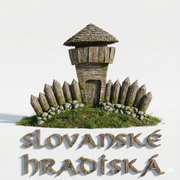
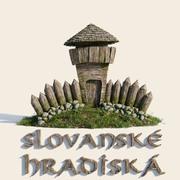
fix: mobilna lista, ikona aplikacie, satelit na telefone, koliesko nad mapou
1 · MOBILNA LISTA
Ikony sa zastavili hned za znackou a vpravo ostavalo prazdno — namerane
105 px pri okne 390 px, kym vlavo ma znacka odsadenie 14 px. `.lnav-right`
dostalo `margin-left: auto`. Overene na dvoch zariadeniach: 14 px vlavo,
14 px vpravo.

2 · IKONA APLIKACIE
Kresba loga mala vlastne sivobiele pozadie rgb(237,237,236), kym maskovatelna
ikona okolo nej mala kremovy ram — v nainstalovanej aplikacii bolo preto
vidiet svetlejsi stvorec vnutri ikony. Novy `scripts/gen-ikony.mjs` pozadie
vyplavi OD ROHOV (nie plosnou zamenou farby, tá by prezrala svetle kamene
a sindlovu strechu) a nahradi ho papierom stranky #f3ede1. Vsetkych sest
ikon aj `background_color` v manifeste teraz drzi jednu farbu.

3 · SATELIT NA TELEFONE Z DOMOVSKEJ STRANKY
Tuknutie na „Satelit" v bocnom paneli iba otvorilo mapu na celu obrazovku
a podklad ostal na reliefe. Poslucháč, ktory mapu otvara, sedi na koreni
sekcie v zachytavacej faze a tuknutie pohltil skor, nez sa dostalo
k tlacidlu. Ovladacie prvky si teraz svoje tuknutie ponechaju; platno
a body ostavaju otvarajuce, lebo vlastnu akciu nemaju.

4 · KOLIESKO NAD MAPOU NA PC
Mapa je uprostred dlhej stranky a kym sa cez nu clovek len prescrolluje,
koliesko mu pod kurzorom priblizovalo a stranka zamrzla. Priblizovanie sa
zapina az kliknutim do mapy a vypina, ked z nej kurzor odide. Na celej
obrazovke je zapnute rovno — tam sa nema kam scrollovat. Popis v paneli
upraveny, aby to hovoril.
[…]

diff --git a/src/components/MapaHradisk.tsx b/src/components/MapaHradisk.tsx
@@ -412,10 +412,25 @@ export function MapaHradisk() {
        reliefe je castejsie treba posunut nabok nez zoomovat, a dvoma prstami
        na trackpade je posun prirodzeny pohyb. Koliesko preto POSUVA (aj
        doprava/dolava cez `deltaX` alebo Shift), priblizuje az Ctrl/⌘. */
-    /* KOLIESKO PRIBLIŽUJE — tak, ako to človek od mapy čaká.
-       Chvíľu tu bolo naopak (koliesko posúvalo, priblíženie chcelo Ctrl),
-       čo bola zbytočná zvláštnosť. Posúvanie má ťahanie myšou. */
+    /* KOLIESKO PRIBLIŽUJE — tak, ako to človek od mapy čaká. Chvíľu tu bolo
+       naopak (koliesko posúvalo, priblíženie chcelo Ctrl), čo bola zbytočná
+       zvláštnosť. Posúvanie má ťahanie myšou.
+
+       LENŽE mapa je uprostred dlhej stránky. Kým sa cez ňu človek len
+       prescrolluje, koliesko mu pod kurzorom začalo približovať a stránka
+       zamrzla. Priblíženie sa preto ZAPÍNA až kliknutím do mapy a vypína,
+       keď z nej kurzor odíde: prechádzam okolo → stránka sa posúva,
+       pracujem s mapou → koliesko približuje.
+
+       Na celej obrazovke sa nemá kam scrollovať, tak je zapnuté rovno. */
     const el = map.getCanvasContainer();
+
+    if (!fullRef.current) map.scrollZoom.disable();
+    const zapniKoliesko = () => map.scrollZoom.enable();
+    const vypniKoliesko = () => { if (!fullRef.current) map.scrollZoom.disable(); };
+    el.addEventListener('mousedown', zapniKoliesko);
+    const koren = rootRef.current;
+    koren?.addEventListener('mouseleave', vypniKoliesko);
 
     /* KTO JE POD KURZOROM sa dopočíta z polôh uzlov, body samy myš
        nezachytávajú. Dovtedy platilo opačné: bod bol tlačidlo, takže mapa
@@ -852,6 +867,9 @@ export function MapaHradisk() {
     const map = mapRef.current;
     if (!map) return;
     fullRef.current = full;
+    /* Na celej obrazovke sa stránka scrollovať nedá, takže koliesko môže
+       približovať rovno — čakať na kliknutie by tam bola len prekážka. */
+    if (full) map.scrollZoom.enable(); else map.scrollZoom.disable();
     if (full) {
       document.body.style.overflow = 'hidden';
       /* Otáčanie dvoma prstami len prekáža — mapa má sever hore. Štipnutie
@@ -1022,9 +1040,17 @@ export function MapaHradisk() {
        čím sa ťuknutie nemusí na klik vôbec preložiť. A prečo v ZACHYTÁVACEJ
        fáze: takto sa poslucháč spustí skôr, než sa udalosť dostane
        k čomukoľvek vnútri, takže ho nemá čo pohltiť. */
+    /* Poslucháč sedí na koreni sekcie, takže dostane aj ťuknutia na ovládacie
+       prvky v bočnom paneli — a tie predtým pohltil: ťuknutie na „Satelit"
+       neprepilo podklad, iba otvorilo mapu na celú obrazovku. Ovládač si
+       preto svoje ťuknutie ponechá sám; plátno MapLibre a body ostávajú
+       otvárajúce, lebo tie žiadnu vlastnú akciu nemajú. */
+    const naOvladaci = (t: EventTarget | null) =>
+      t instanceof Element && !!t.closest('button, a, input, select, label, [role="button"], [role="group"]');
+
     let t0 = 0, x0 = 0, y0 = 0, moved = false;
     const onStart = (e: TouchEvent) => {
-      if (e.touches.length !== 1) { moved = true; return; }
+      if (e.touches.length !== 1 || naOvladaci(e.target)) { moved = true; return; }
       t0 = e.timeStamp; x0 = e.touches[0].clientX; y0 = e.touches[0].clientY; moved = false;
     };
     const onMove = (e: TouchEvent) => {
@@ -1032,7 +1058,7 @@ export function MapaHradisk() {
       if (Math.abs(e.touches[0].clientX - x0) > 12 || Math.abs(e.touches[0].clientY - y0) > 12) moved = true;
     };
     const onEnd = (e: TouchEvent) => {
-      if (moved || e.timeStamp - t0 > 700) return;
+      if (moved || naOvladaci(e.target) || e.timeStamp - t0 > 700) return;
       e.stopPropagation();
       /* KĽÚČOVÉ: bez tohto prehliadač po zdvihnutí prsta ešte dogeneruje
          klik — a ten dopadne až vtedy, keď je mapa na celej obrazovke
@@ -1042,7 +1068,7 @@ export function MapaHradisk() {
       open();
     };
     /* Myš na úzkom okne — tam žiadne rozlišovanie netreba. */
-    const onClick = (e: Event) => { e.stopPropagation(); open(); };
+    const onClick = (e: Event) => { if (naOvladaci(e.target)) return; e.stopPropagation(); open(); };
 
     /* `passive: false` je nutné — inak prehliadač `preventDefault()` v
        `touchend` ignoruje a dogenerovaný klik prejde. */
@@ -1111,7 +1137,8 @@ export function MapaHradisk() {
           <h2 className="lmap-title">Hradiská</h2>
           <div className="lmap-sub">Slovenska</div>
           <p className="lmap-lead">
-            Interaktívna mapa lokalít. Kolieskom približujete, ťahaním posúvate —
+            Interaktívna mapa lokalít. Kliknutím do nej zapnete koliesko na
+            približovanie, ťahaním posúvate —
             zhluky sa priblížením rozpadnú na jednotlivé body. Prejdením po bode
             otvoríte kartu lokality, klikom do mapy ju zavriete.
           </p>

diff --git a/src/design-lab/theme.css b/src/design-lab/theme.css
@@ -428,7 +428,13 @@
 .lnav-panel-all:hover { color: var(--l-accent-deep); background: var(--l-paper-2); border-radius: 0 0 9px 9px; }
 
 @media (max-width: 1100px) { .lnav-rowlabel { display: none; } }
-@media (max-width: 900px) { .lnav-cats { display: none; } }
+@media (max-width: 900px) {
+  .lnav-cats { display: none; }
+  /* Bez tohto sa ikony zastavia hneď za značkou a vpravo ostane prázdno:
+     namerané 105 px pri okne 390 px, kým vľavo má značka odsadenie 14 px.
+     Lišta tým pôsobí rozhodene — ikony patria k pravému okraju. */
+  .lnav-right { margin-left: auto; }
+}
 @media (prefers-reduced-motion: reduce) {
   .lnav-cat-btn, .lnav-cat-btn::after, .lnav-cats-row[data-secondary], .lnav-mark { transition: none; }
   .lnav-panel { animation: none; }
